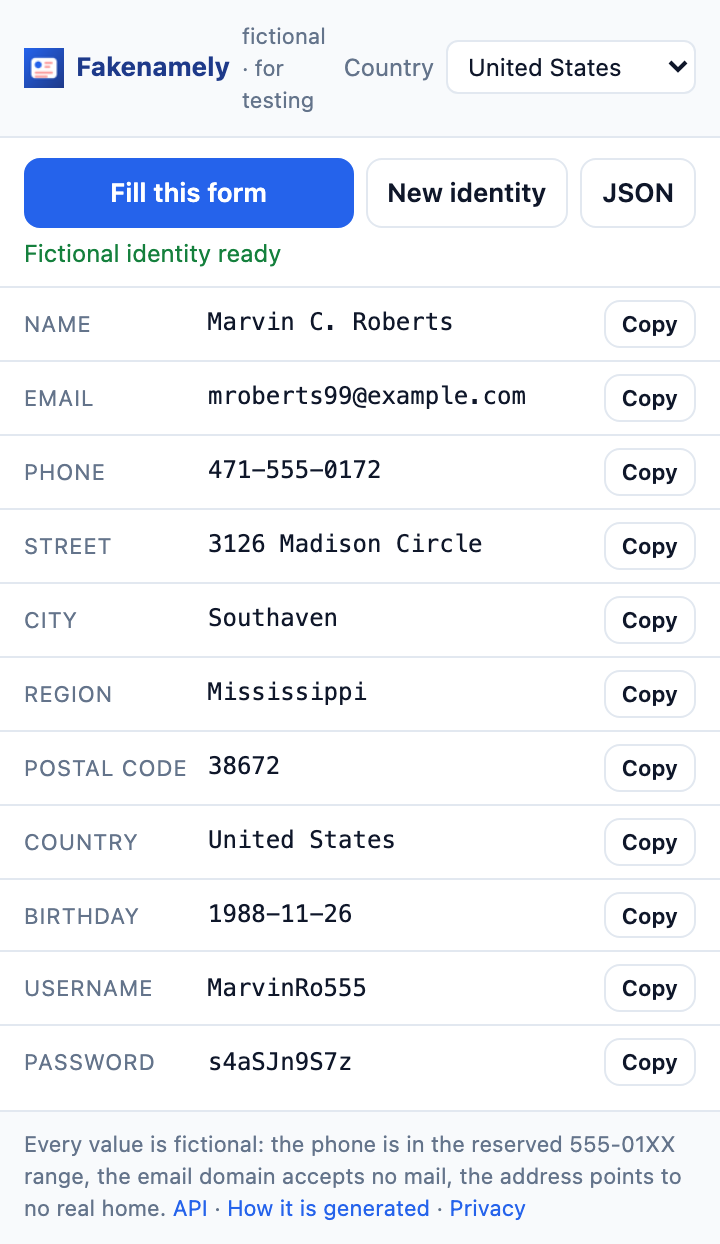
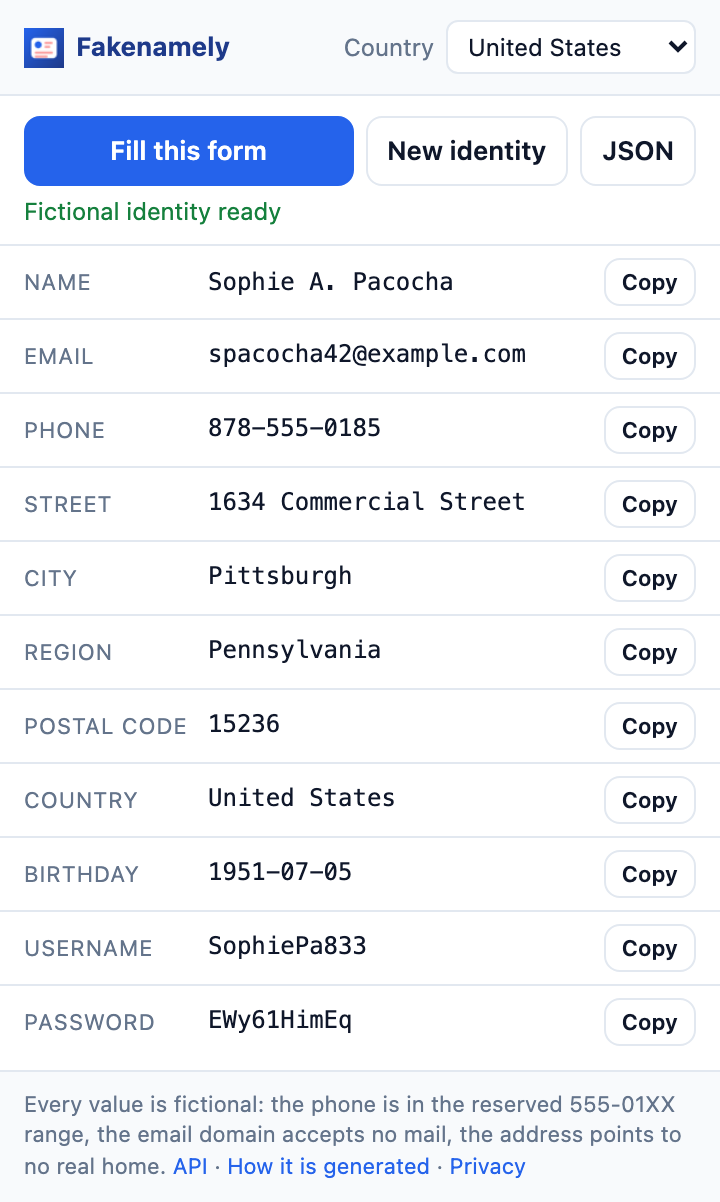
fix: keep the popup header on one line

diff --git a/popup.css b/popup.css
@@ -3,7 +3,6 @@
 body { margin: 0; width: 360px; font: 13px/1.45 -apple-system, BlinkMacSystemFont, "Segoe UI", Inter, Roboto, sans-serif; color: var(--ink); background: #fff; }
 header { display: flex; align-items: center; justify-content: space-between; gap: 8px; padding: 10px 12px; background: var(--bg); border-bottom: 1px solid var(--line); }
 .brand { display: flex; align-items: center; gap: 6px; color: var(--navy); }
-.brand .tag { font-size: 11px; color: var(--muted); font-weight: 400; }
 .country { display: flex; align-items: center; gap: 6px; font-size: 12px; color: var(--muted); }
 .country select { font: inherit; padding: 4px 6px; border: 1px solid var(--line); border-radius: 6px; background: #fff; color: var(--ink); max-width: 150px; }
 .actions { display: flex; gap: 6px; padding: 10px 12px 4px; }

diff --git a/popup.html b/popup.html
@@ -10,7 +10,6 @@
     <div class="brand">
       <img src="icons/icon32.png" alt="" width="20" height="20" />
       <strong>Fakenamely</strong>
-      <span class="tag">fictional · for testing</span>
     </div>
     <label class="country">
       <span>Country</span>
